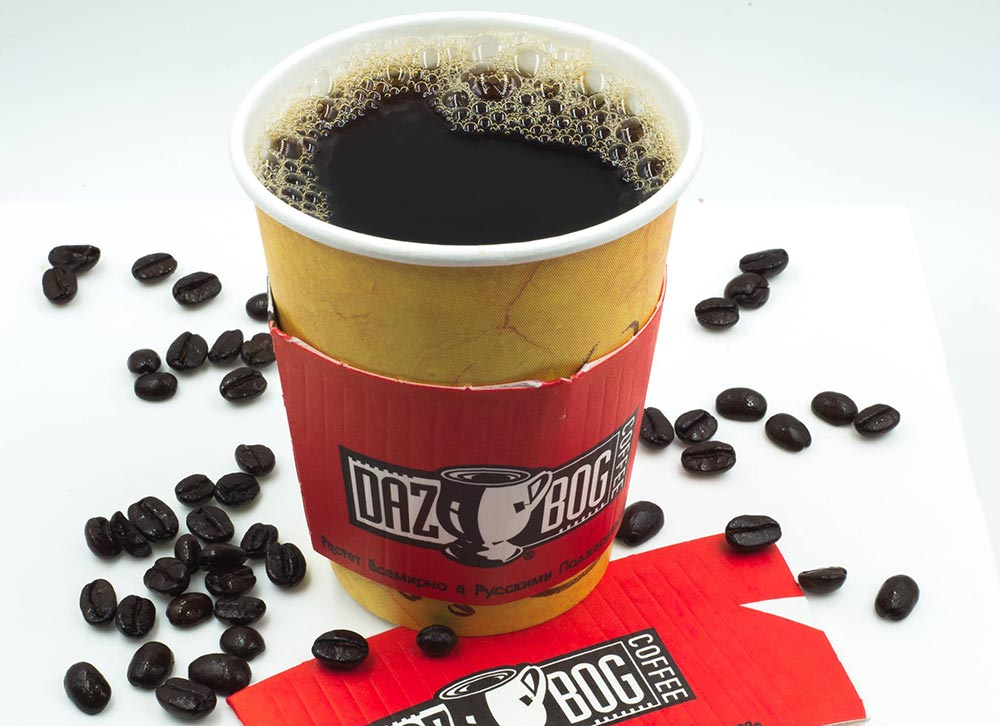
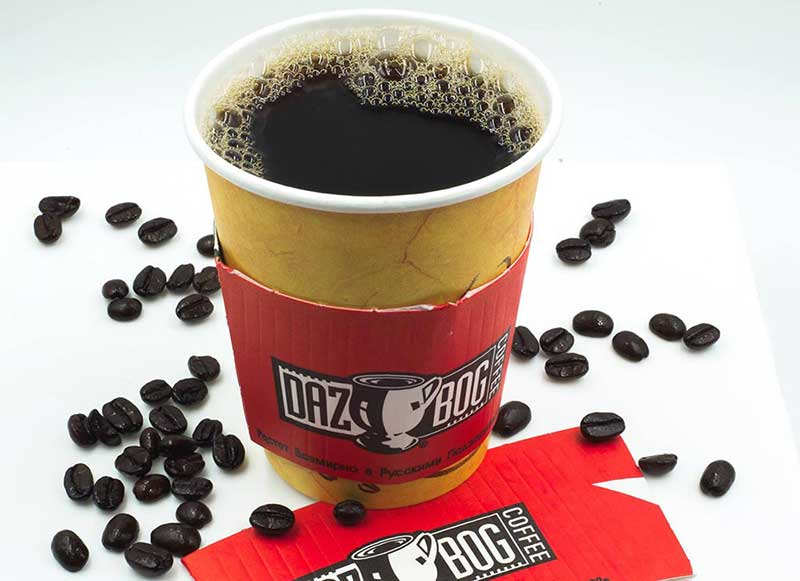
Scroll fixes and Image shrink
- Handling scroll position during main menu naviagtion and food menu navigation.
- Shrunk image size to increase load speed.
- Fixed font-awesome file load issue with web.config change.

diff --git a/src/app/menu/menu.component.ts b/src/app/menu/menu.component.ts
@@ -21,6 +21,10 @@ export class MenuComponent implements OnInit, AfterViewInit {
       ? this.allCategories
       : this.allCategories.filter(category => category.name === this.activeCategoryName);
 
+    // Scroll to the top of the menu when it is changed
+    const menuItemsTop = $('#menuItems').offset().top - 138;
+    window.scrollTo(0, menuItemsTop);
+
     return false;
   }
 

diff --git a/src/app/menu/menu.component.html b/src/app/menu/menu.component.html
@@ -17,7 +17,7 @@
         </a>
       </div>
     </div>
-    <div class="col-9 col-md-6">
+    <div class="col-9 col-md-6" id="menuItems">
       <div *ngFor="let category of activeCategories">
         <div *ngFor="let subCategory of category.subCategories" class="menu-subcategory">
           <h5>{{ subCategory.name }}</h5>

diff --git a/src/app/app.component.html b/src/app/app.component.html
@@ -1,7 +1,7 @@
 <app-navbar></app-navbar>
 
 <main role="main" [@routerTransition]="getState(o)">
-  <router-outlet #o="outlet"></router-outlet>
+  <router-outlet #o="outlet" (deactivate)="onDeactivate()"></router-outlet>
 </main>
 
 <app-footer></app-footer>

diff --git a/src/app/app.component.ts b/src/app/app.component.ts
@@ -14,6 +14,10 @@ export class AppComponent implements AfterViewInit {
     return outlet.activatedRouteData.state;
   }
 
+  onDeactivate() {
+    window.scrollTo(0, 0);
+  }
+
   ngAfterViewInit() {
     // $('#myModal').modal({ show: true })
   }

diff --git a/README.md b/README.md
@@ -1,6 +1,6 @@
 # TheBagelry
 
-This project was generated with [Angular CLI](https://github.com/angular/angular-cli) version 1.7.3.
+This project is the source code for The Bagelry's web site in Evergreen Colorado.
 
 ## Development server
 
@@ -8,7 +8,7 @@ Run `ng serve --open` for a dev server. Navigate to `http://localhost:4200/`. Th
 
 ## Code scaffolding
 
-Run `ng generate component component-name` to generate a new component. You can also use `ng generate directive|pipe|service|class|guard|interface|enum|module`.
+Run `ng g component component-name` to generate a new component. You can also use `ng generate directive|pipe|service|class|guard|interface|enum|module`.
 
 ## Build
 
@@ -21,7 +21,3 @@ Run `ng test` to execute the unit tests via [Karma](https://karma-runner.github.
 ## Running end-to-end tests
 
 Run `ng e2e` to execute the end-to-end tests via [Protractor](http://www.protractortest.org/).
-
-## Further help
-
-To get more help on the Angular CLI use `ng help` or go check out the [Angular CLI README](https://github.com/angular/angular-cli/blob/master/README.md).
